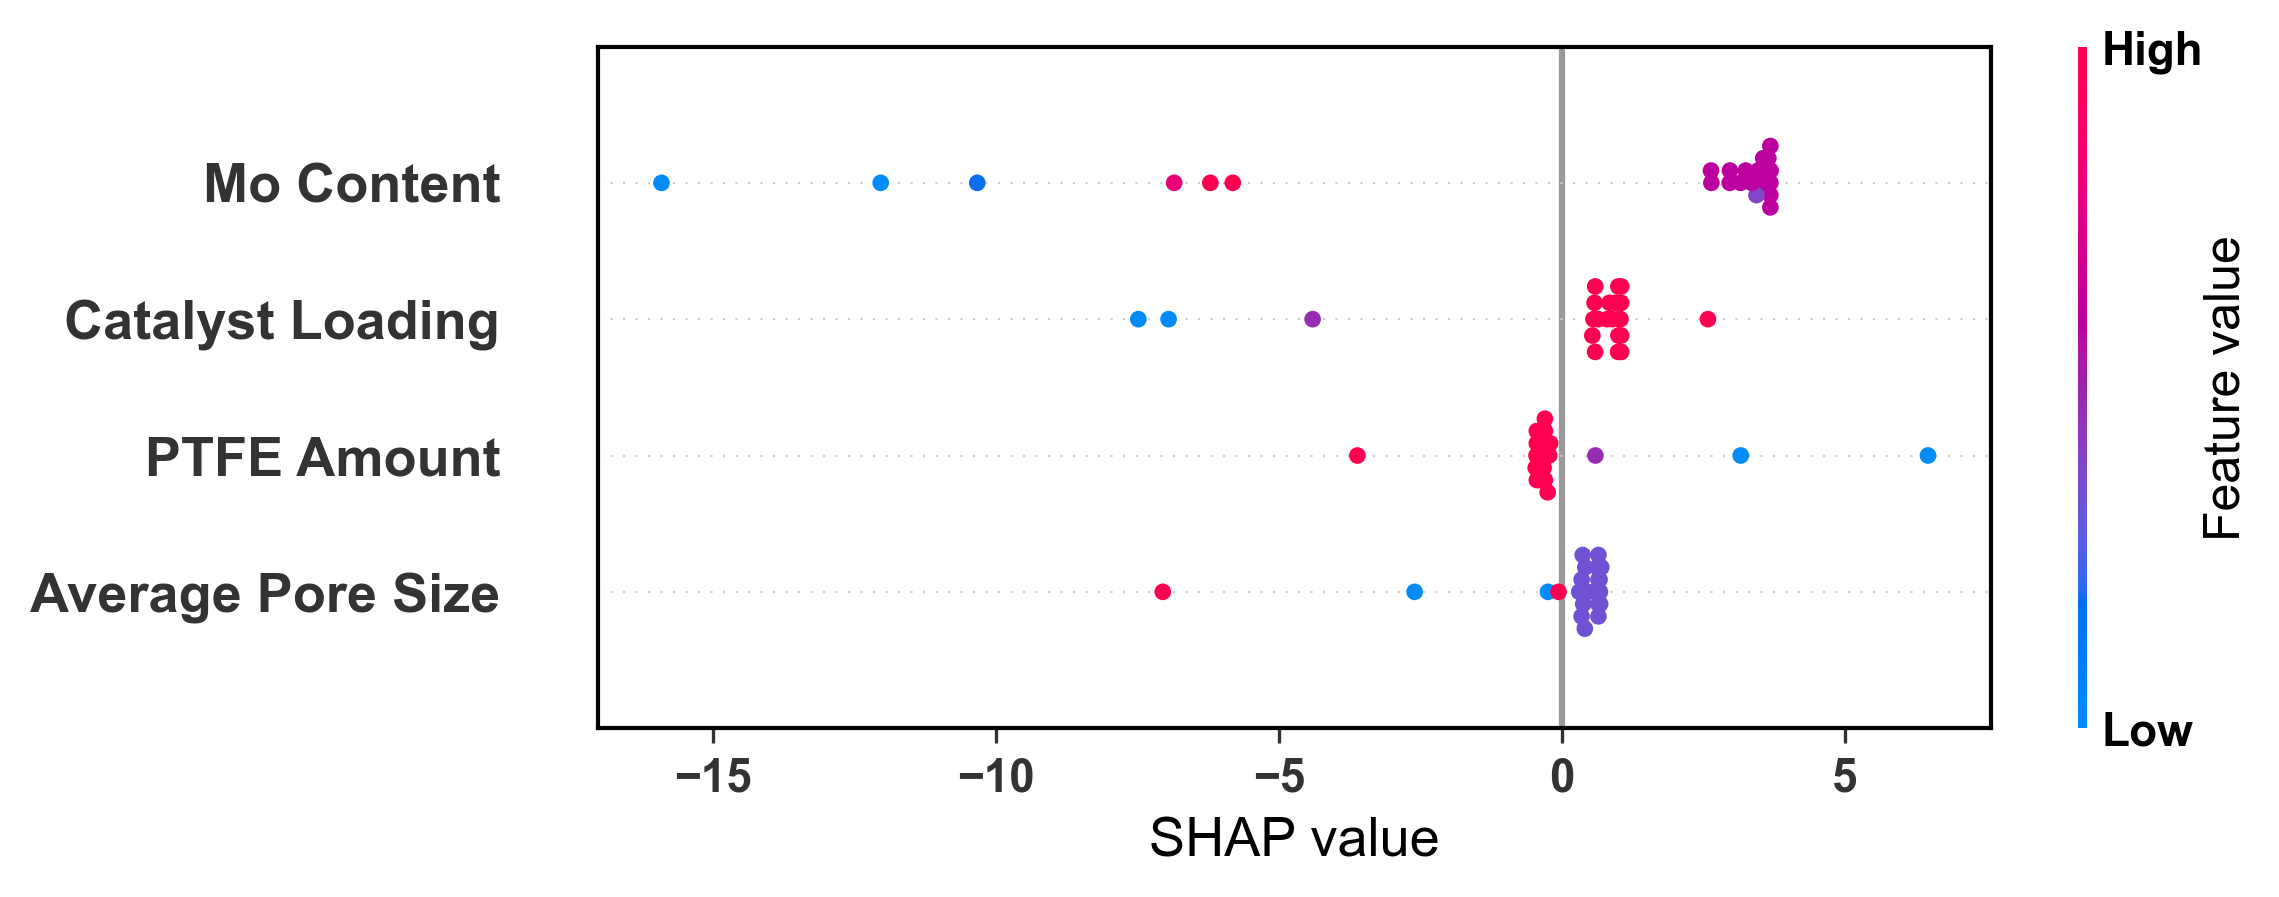
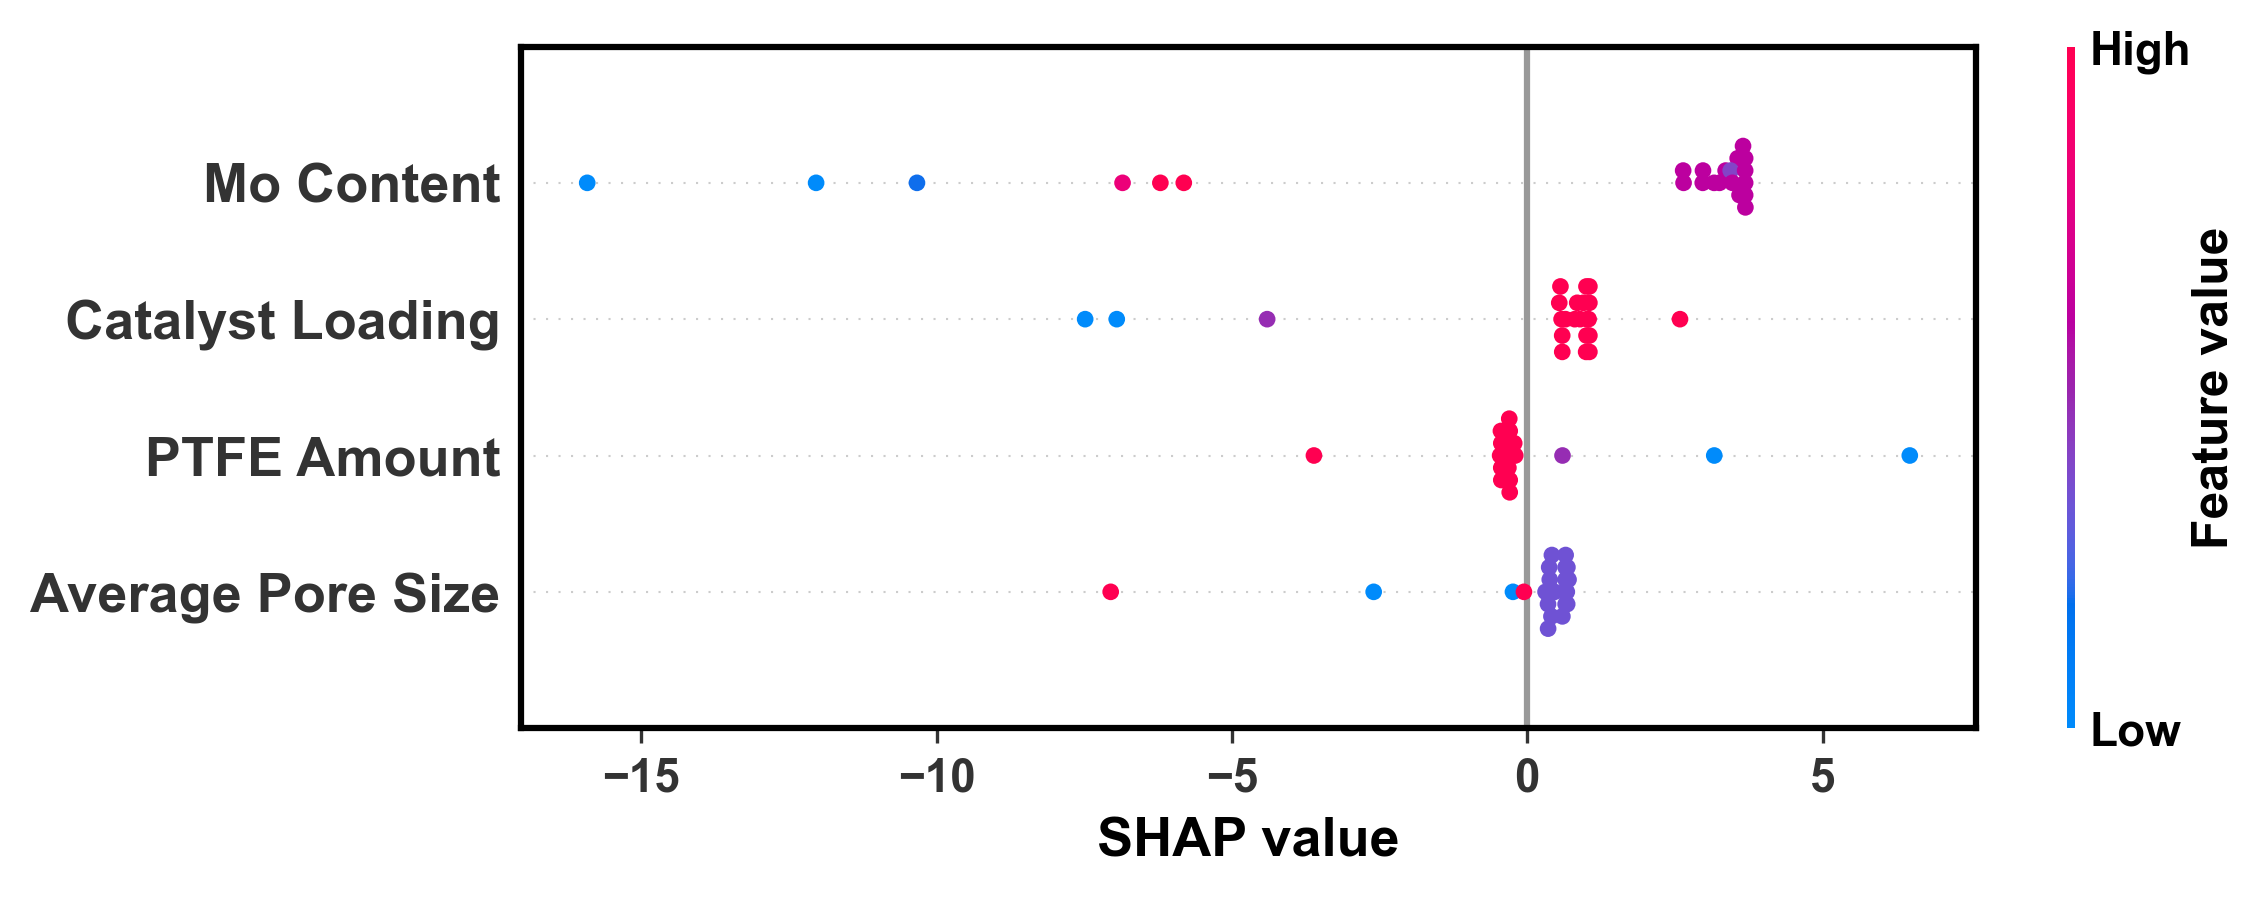
fix plot

diff --git a/01_train_xgboost.py b/01_train_xgboost.py
@@ -11,8 +11,8 @@ from plot_utils import plot_scatter
 warnings.filterwarnings("ignore")
 
 # Set font to Arial Bold
-plt.rcParams['font.family'] = 'Arial'
-plt.rcParams['font.weight'] = 'bold'
+plt.rcParams["font.family"] = "Arial"
+plt.rcParams["font.weight"] = "bold"
 
 # Load data
 data = pd.read_csv("data/processed/data.csv")
@@ -67,13 +67,17 @@ plt.figure()
 explainer = shap.Explainer(model1, X)
 shap_values = explainer(X)
 shap.summary_plot(shap_values, X, show=False)
-plt.xlabel("SHAP value")
+cb_ax = plt.gcf().axes[-1]  # colorbar axis is always the last one
+cb_ax.set_ylabel("Feature value", fontweight="bold", fontfamily="Arial")
+plt.xlabel("SHAP value", fontweight="bold", fontfamily="Arial")
 # Add frame to the plot
 ax = plt.gca()
 for spine in ax.spines.values():
     spine.set_visible(True)
-    spine.set_linewidth(1)
-    spine.set_color('black')
+    spine.set_linewidth(1.5)
+    spine.set_color("black")
+# Move y-axis tick labels closer to the axis and add outward ticks
+ax.tick_params(axis="y", pad=-15)
 plt.tight_layout()
 plt.savefig("figure/shap_values_xgboost_faradic.png", dpi=300, bbox_inches="tight")
 plt.close()
@@ -83,13 +87,17 @@ plt.figure()
 explainer = shap.Explainer(model2, X)
 shap_values = explainer(X)
 shap.summary_plot(shap_values, X, show=False)
-plt.xlabel("SHAP value")
+cb_ax = plt.gcf().axes[-1]  # colorbar axis is always the last one
+cb_ax.set_ylabel("Feature value", fontweight="bold", fontfamily="Arial")
+plt.xlabel("SHAP value", fontweight="bold", fontfamily="Arial")
 # Add frame to the plot
 ax = plt.gca()
 for spine in ax.spines.values():
     spine.set_visible(True)
-    spine.set_linewidth(1)
-    spine.set_color('black')
+    spine.set_linewidth(1.5)
+    spine.set_color("black")
+# Move y-axis tick labels closer to the axis and add outward ticks
+ax.tick_params(axis="y", pad=-15)
 plt.tight_layout()
 plt.savefig("figure/shap_values_xgboost_nh3.png", dpi=300, bbox_inches="tight")
 plt.close()
